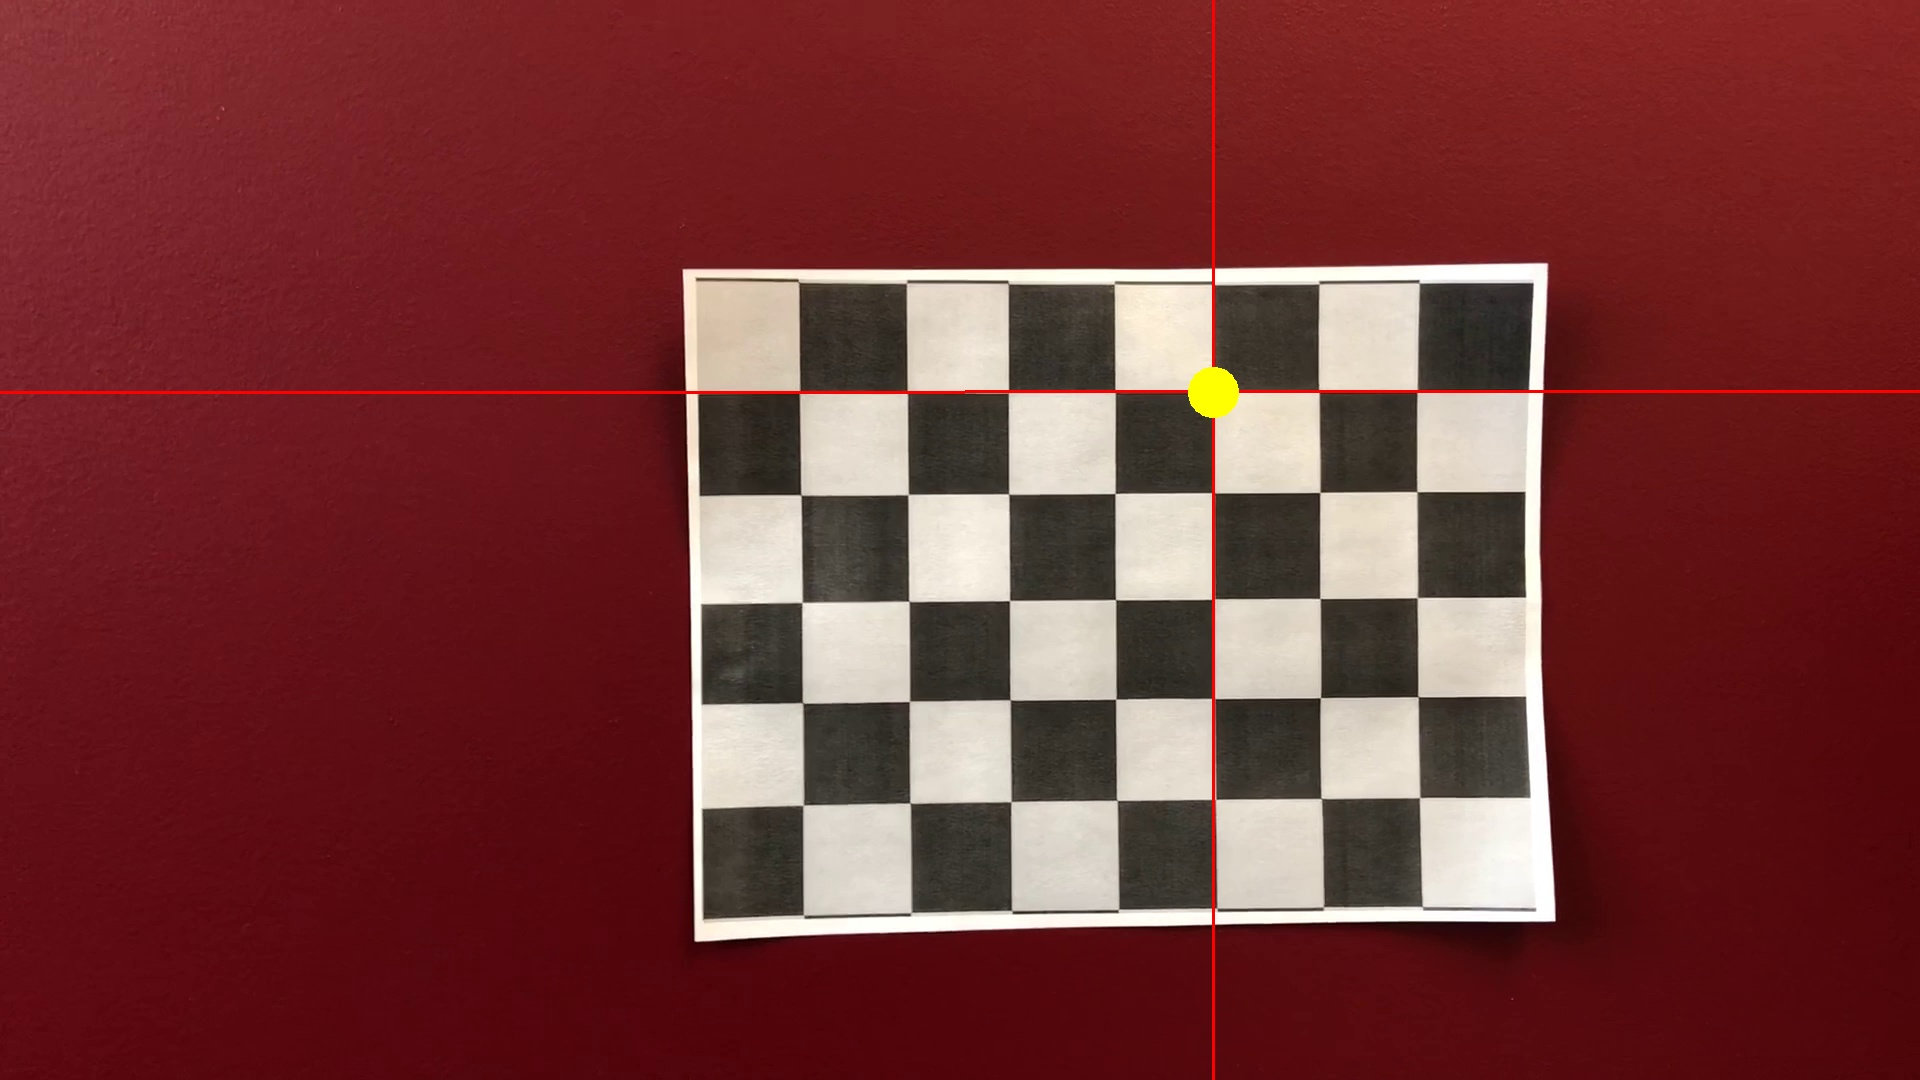
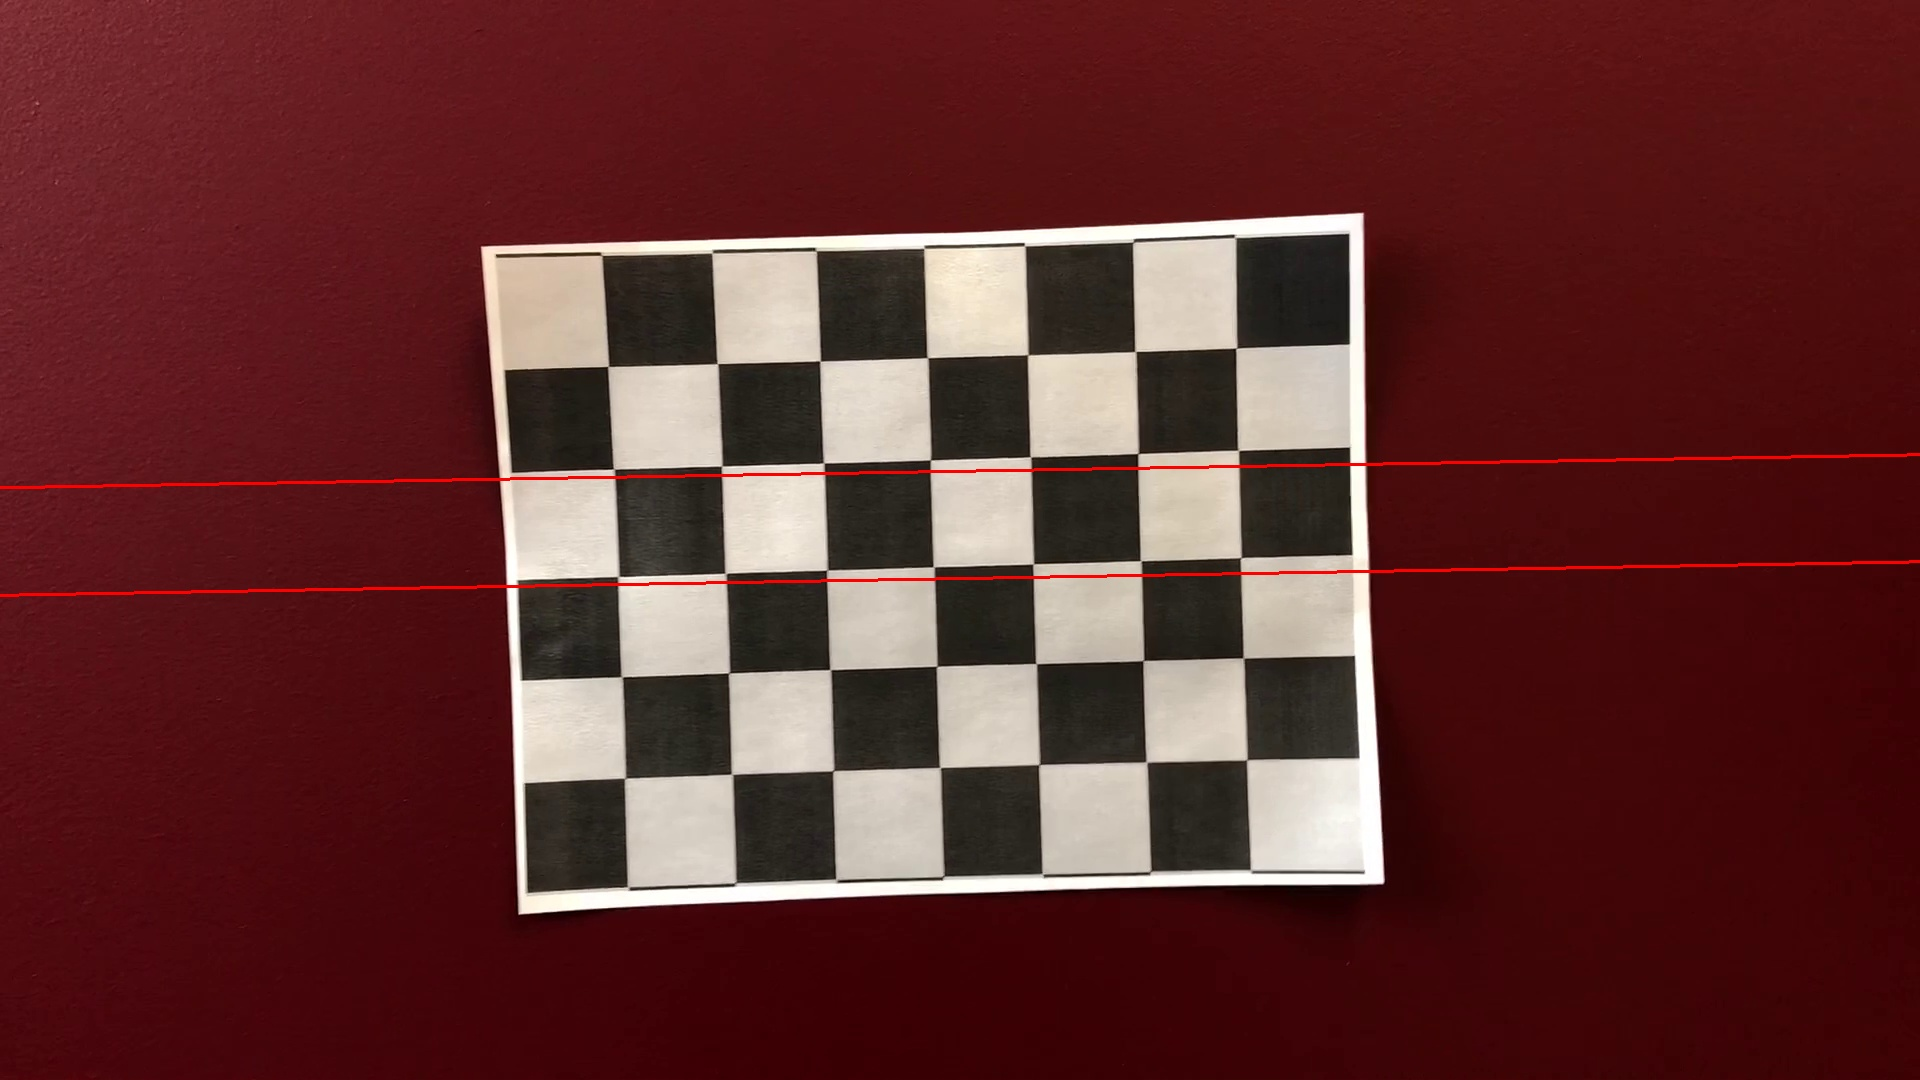
added video support

diff --git a/Lab1.py b/Lab1.py
@@ -54,42 +54,53 @@ def line_intersection(line1, line2):
 #img = cv2.imread("test1.JPG")
 cv2.namedWindow('Display', cv2.WINDOW_NORMAL)
 cap = cv2.VideoCapture("Movie1.MOV")
+n = 0
 while(cap.isOpened()):
     hasframe, img = cap.read()
-    size = img.shape
-    viewImage(img)
-    gray = cv2.cvtColor(img,cv2.COLOR_BGR2GRAY)
-    edges = cv2.Canny(gray,100,150)# The parameters are the thresholds for Canny
+    if (n % 30.0==0):
+        print("show frame")
+        size = img.shape
+        #viewImage(img)
+        gray = cv2.cvtColor(img,cv2.COLOR_BGR2GRAY)
+        edges = cv2.Canny(gray,100,150)# The parameters are the thresholds for Canny
 
-    lines = cv2.HoughLines(edges,0.5,0.01,300) # The parameters are accuracies and threshold
-    num = len(lines)
-    line_points = []
-    for n in range(num):
-        rho, theta = lines[n][0]
-        a = np.cos(theta)
-        b = np.sin(theta)
-        x0 = a*rho
-        y0 = b*rho
-        x1 = int(x0 + size[1]*(-b))
-        y1 = int(y0 + size[0]*(a))
-        x2 = int(x0 - size[1]*(-b))
-        y2 = int(y0 - size[0]*(a))
+        lines = cv2.HoughLines(edges,0.5,0.01,300) # The parameters are accuracies and threshold
 
-        cv2.line(img,(x1,y1),(x2,y2),(0,0,255),2)
+        try:
+            num = len(lines)
+        except:
+            print("error here")
+            continue
 
-        line_points.append(line(x0,y0,x1,y1))
+        line_points = []
+        for n in range(num):
+            rho, theta = lines[n][0]
+            a = np.cos(theta)
+            b = np.sin(theta)
+            x0 = a*rho
+            y0 = b*rho
+            x1 = int(x0 + size[1]*(-b))
+            y1 = int(y0 + size[0]*(a))
+            x2 = int(x0 - size[1]*(-b))
+            y2 = int(y0 - size[0]*(a))
 
-    viewImage(img)
-    cv2.imwrite('houghlines1.jpg',img)
+            cv2.line(img,(x1,y1),(x2,y2),(0,0,255),2)
 
-    for n in range(num-1):
-        for j in range(n+1,num):
-            intersection = line_intersection(line_points[n],line_points[j])
-            print(intersection[0]," ",intersection[1])
-            if(intersection[0]<3000 and intersection[0]<3000):
-                cv2.circle(img, intersection, 25, (0, 255, 255), thickness=-1, lineType=cv2.FILLED)
+            line_points.append(line(x0,y0,x1,y1))
 
-    if cv2.waitKey(1) & 0xFF == ord('q'):
-        break
-    viewImage(img)
-    cv2.imwrite('intersection.jpg',img)
+        #viewImage(img)
+        cv2.imwrite('houghlines1.jpg',img)
+
+        for n in range(num-1):
+            for j in range(n+1,num):
+                intersection = line_intersection(line_points[n],line_points[j])
+                print(intersection[0]," ",intersection[1])
+                if(intersection[0]<3000 and intersection[1]<3000):
+                    cv2.circle(img, intersection, 25, (0, 255, 255), thickness=-1, lineType=cv2.FILLED)
+
+        if cv2.waitKey(1) & 0xFF == ord('q'):
+            break
+        viewImage(img)
+        cv2.imwrite('intersection.jpg',img)
+    n = n + 1
+    print(n)
